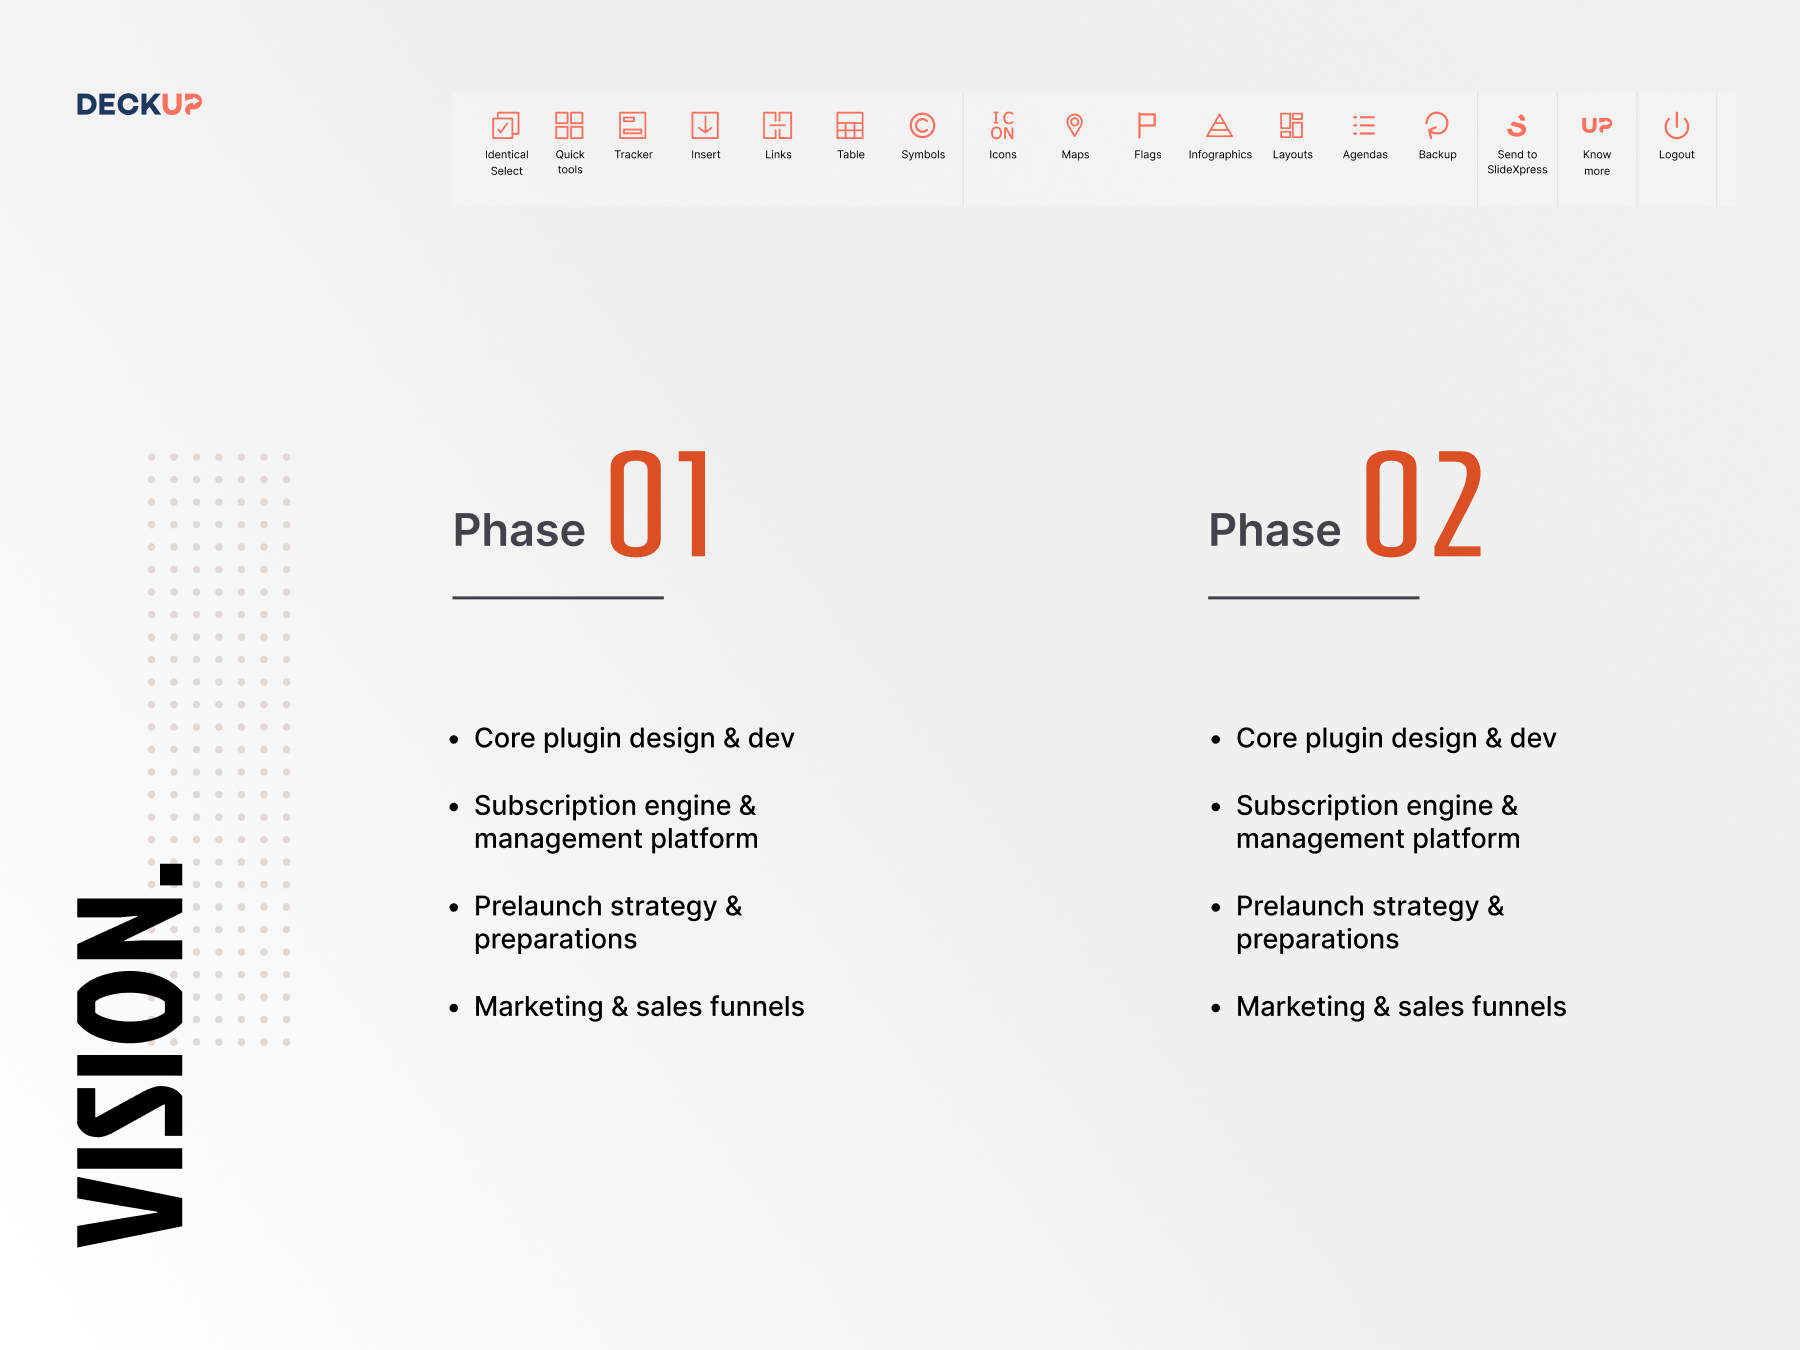
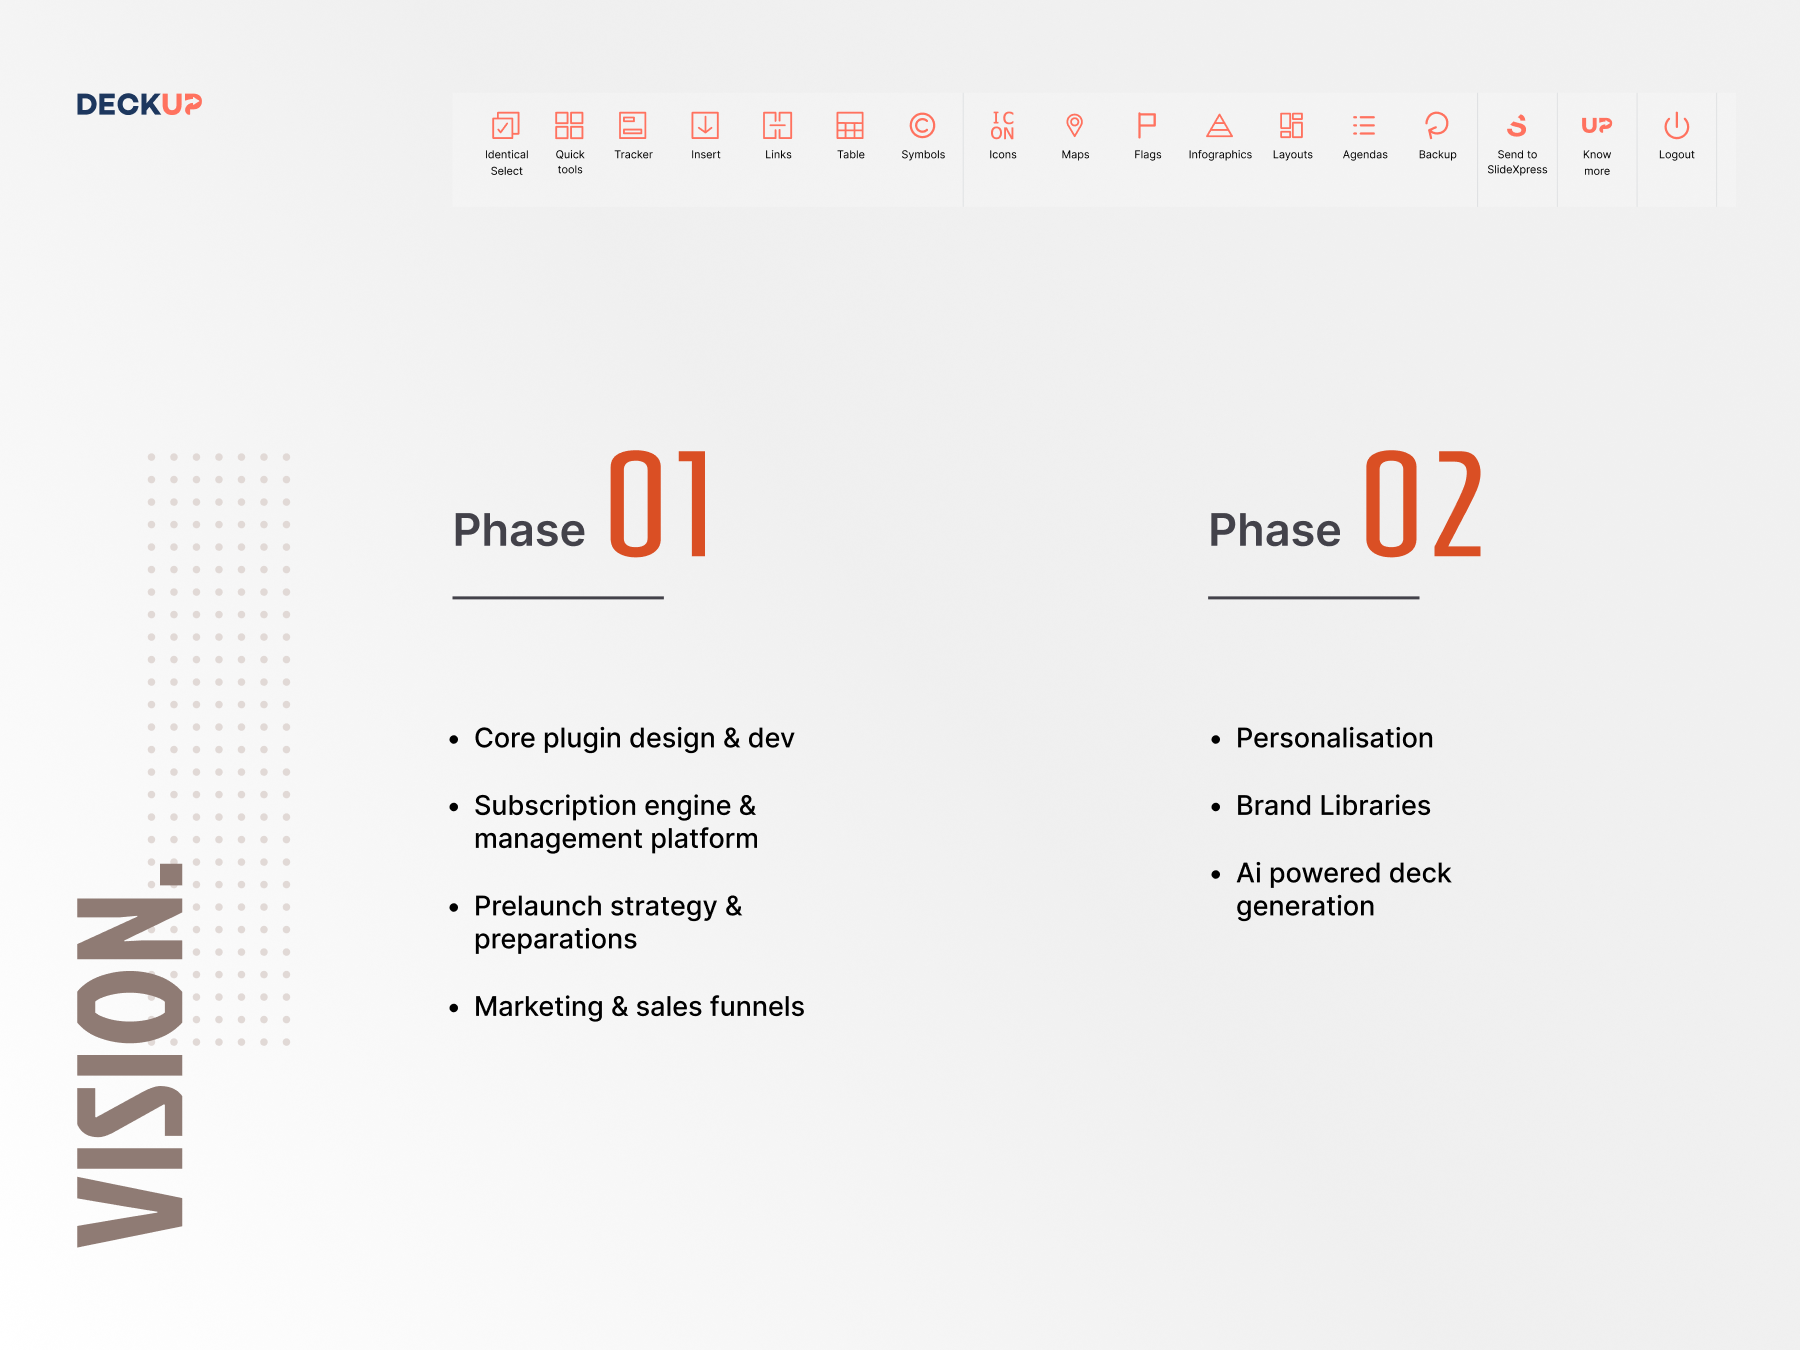
Deckup changes

diff --git a/src/lib/case-studies/deckup.ts b/src/lib/case-studies/deckup.ts
@@ -57,7 +57,7 @@ export const deckup: CaseStudy = {
       body: 'Studied the real pain points of power PowerPoint users across 5 segments: Consultants, Corporate Managers, Presentation Specialists, Educators, and IT Admins. Identified the top recurring tasks eating the most time. Ran a full competitor study across 7 tools for features, onboarding, and pricing. Developed a pricing model with a critical financial planning lens — balancing product sustainability with competitive positioning. Personas and user journeys were mapped to anchor design decisions in real user goals.',
       tags: ['5 user segments', '7 competitors analysed', 'Pricing model & financial planning', 'Personas & journey maps'],
       image: {
-        src: null,
+        src: '/case-studies/deck-up/02_research.png',
         alt: 'User segments, personas, and competitor benchmarking overview',
         hint: 'Show the two user tracks: Product users (Consultants, Corporate Managers, Individual Professionals, Presentation Specialists, Educators) vs Platform users (IT Admins). Optionally overlay the competitor matrix.',
         aspect: 'aspect-[4/3]',
@@ -70,7 +70,7 @@ export const deckup: CaseStudy = {
       body: 'Designed the plugin toolbar from the ground up to solve 11 specific problems power users faced daily: organising, positioning & aligning elements; editing size & shape across multiple objects in one click; tracking content flow and annotating slides; creating and formatting tables; showing progressions visually; selecting identical elements and changing their properties across the full deck; arranging content in matrix layouts; generating network diagrams instantly; running global checks for standard errors; creative data visualisation (charts, maps, symbols, visual libraries); and a custom brand element library. Each feature was designed with defined information hierarchy, user behaviours within PowerPoint\'s constrained panel environment, and multiple rounds of testing and reiteration — always focused on maximum value per click.',
       tags: ['Align & position', 'Multi-element size & shape', 'Content tracker & annotations', 'Table creation & formatting', 'Visual progressions', 'Identical Select', 'Matrix layouts', 'Network diagrams', 'Global error checks', 'Charts, maps & visual libraries', 'Custom element library'],
       image: {
-        src: null,
+        src: '/case-studies/deck-up/03_plugindesign.png',
         alt: 'DeckUp toolbar UI — plugin panel inside PowerPoint',
         hint: 'Screenshot of the DeckUp toolbar in PowerPoint showing the plugin panel: Quick Tools, Table Formatting, Agendas, Labels feature. Show the compact, accessible layout.',
         aspect: 'aspect-[4/3]',
@@ -83,7 +83,7 @@ export const deckup: CaseStudy = {
       body: 'While the plugin was being built, the design team worked in parallel on the subscription platform — covering user management for Single, Teams, and Enterprise accounts. Each plan type had distinct flows and admin needs. Both teams ran weekly alignment sessions to sync on goals, match development timelines, and ensure the plugin and platform stayed coherent as one product — not two separate tools.',
       tags: ['Single · Teams · Enterprise flows', 'User management dashboard', 'Weekly cross-team alignment', 'IT Admin experience'],
       image: {
-        src: null,
+        src: '/case-studies/deck-up/04_subscription_platform.png',
         alt: 'Subscription platform — user management dashboard',
         hint: 'Show the subscription dashboard: user list, licence management, plan status, add/remove users. Highlight the three plan types (Single, Teams, Enterprise) in the UI.',
         aspect: 'aspect-[4/3]',
@@ -96,7 +96,7 @@ export const deckup: CaseStudy = {
       body: 'DeckUp is a standalone PC/laptop installer — not a browser extension. This makes onboarding genuinely cross-functional: it starts on the website with account creation and validation, moves through plan selection and payment, then installer download and plugin activation. Four distinct plan flows were designed: Free Trial, Buy Now (Single), Teams, and Enterprise (get-a-quote). Renewal flows covered both automatic and manual paths with 30/15/7-day email reminders for each scenario.',
       tags: ['Free Trial · Buy Now · Teams · Enterprise', 'Installer activation flow', 'Renewal strategies', 'Email trigger design', '6 complete user journeys'],
       image: {
-        src: null,
+        src: '/case-studies/deck-up/onboarding.png',
         alt: 'Cross-functional onboarding flows — website to plugin activation',
         hint: 'Flow diagram showing the full onboarding path: Website → Account creation → Plan selection → Payment → Installer download → Plugin activation → 30-day trial / Paid plan. Show multiple plan paths branching.',
         aspect: 'aspect-[4/3]',
@@ -109,7 +109,7 @@ export const deckup: CaseStudy = {
       body: 'To reduce Phase I development time, Chargebee was adopted as the subscription engine — handling billing, licence management, and renewals. Its dashboard also served as the internal analytics and growth metrics platform, providing data visualisation, reports, and user management in one place without building custom analytics from scratch. Testing ran across 4 structured rounds: plugin core flows, onboarding, dashboard and enterprise, and visual QA. The prelaunch strategy launched with a limited cohort of existing SlideXpress customers — gaining an outside perspective and catching early issues before a wider rollout.',
       tags: ['Chargebee subscription engine', 'Growth analytics & reporting', '4 QA rounds', 'Limited prelaunch with existing customers'],
       image: {
-        src: null,
+        src: '/case-studies/deck-up/05_Chargebee.png',
         alt: 'QA tracking and prelaunch framework',
         hint: 'Could show the QA tracking sheet (Deckup_testing.xlsx) with columns for issue type, status (Done/Verified/Pending), or a prelaunch rollout framework diagram.',
         aspect: 'aspect-[4/3]',
@@ -117,6 +117,16 @@ export const deckup: CaseStudy = {
       imagePosition: 'left',
     },
   ],
+
+  processMidBanner: {
+    src: '/case-studies/deck-up/process_mid_banner.png',
+    alt: 'DeckUp process mid-point overview',
+  },
+
+  preFindingsBanner: {
+    src: '/case-studies/deck-up/Key_findings.png',
+    alt: 'DeckUp key findings banner',
+  },
 
   findings: [
     {

diff --git a/src/app/work/deckup-detail/page.tsx b/src/app/work/deckup-detail/page.tsx
@@ -268,8 +268,8 @@ function TheIdea() {
             {
               phase: 'Phase I',
               label: 'Core plugin & platform',
-              status: 'Shipped',
-              statusStyle: 'bg-green-100 text-green-700',
+              status: 'Prelaunch',
+              statusStyle: 'bg-amber-100 text-amber-700',
               items: [
                 'PowerPoint toolbar plugin — 5 core feature groups',
                 'Subscription & user management dashboard',
@@ -339,13 +339,52 @@ function TheIdea() {
         <p className="text-zinc-400 text-xs uppercase tracking-widest mb-6">The 4-platform ecosystem</p>
         <div className="grid grid-cols-2 md:grid-cols-4 gap-4 mb-16">
           {[
-            { platform: 'Website',   role: 'Market product, provide info, resources, order, support', icon: '🌐' },
-            { platform: 'Dashboard', role: 'Subscription management, user add/delete, renewals',       icon: '📊' },
-            { platform: 'Plugin',    role: 'Productivity features, licence validation, account sync',  icon: '🔌' },
-            { platform: 'Installer', role: 'Installation, activation, account sync',                  icon: '⚙' },
+            {
+              platform: 'Website',
+              role: 'Market product, provide info, resources, order, support',
+              icon: (
+                <svg width="20" height="20" viewBox="0 0 24 24" fill="none" stroke="currentColor" strokeWidth="1.75" strokeLinecap="round" strokeLinejoin="round">
+                  <circle cx="12" cy="12" r="10" />
+                  <path d="M2 12h20M12 2a15.3 15.3 0 0 1 4 10 15.3 15.3 0 0 1-4 10 15.3 15.3 0 0 1-4-10 15.3 15.3 0 0 1 4-10z" />
+                </svg>
+              ),
+            },
+            {
+              platform: 'Dashboard',
+              role: 'Subscription management, user add/delete, renewals',
+              icon: (
+                <svg width="20" height="20" viewBox="0 0 24 24" fill="none" stroke="currentColor" strokeWidth="1.75" strokeLinecap="round" strokeLinejoin="round">
+                  <rect x="3" y="3" width="7" height="7" rx="1" />
+                  <rect x="14" y="3" width="7" height="7" rx="1" />
+                  <rect x="3" y="14" width="7" height="7" rx="1" />
+                  <rect x="14" y="14" width="7" height="7" rx="1" />
+                </svg>
+              ),
+            },
+            {
+              platform: 'Plugin',
+              role: 'Productivity features, licence validation, account sync',
+              icon: (
+                <svg width="20" height="20" viewBox="0 0 24 24" fill="none" stroke="currentColor" strokeWidth="1.75" strokeLinecap="round" strokeLinejoin="round">
+                  <path d="M12 2L2 7l10 5 10-5-10-5z" />
+                  <path d="M2 17l10 5 10-5" />
+                  <path d="M2 12l10 5 10-5" />
+                </svg>
+              ),
+            },
+            {
+              platform: 'Installer',
+              role: 'Installation, activation, account sync',
+              icon: (
+                <svg width="20" height="20" viewBox="0 0 24 24" fill="none" stroke="currentColor" strokeWidth="1.75" strokeLinecap="round" strokeLinejoin="round">
+                  <path d="M12 2v13M8 11l4 4 4-4" />
+                  <path d="M4 17v2a2 2 0 0 0 2 2h12a2 2 0 0 0 2-2v-2" />
+                </svg>
+              ),
+            },
           ].map(p => (
             <div key={p.platform} className="bg-zinc-50 border border-zinc-200 rounded-2xl p-6">
-              <div className="text-2xl mb-3">{p.icon}</div>
+              <div className="text-blue-500 mb-3">{p.icon}</div>
               <p className="text-zinc-800 text-sm font-semibold mb-2">{p.platform}</p>
               <p className="text-zinc-400 text-xs leading-relaxed">{p.role}</p>
             </div>
